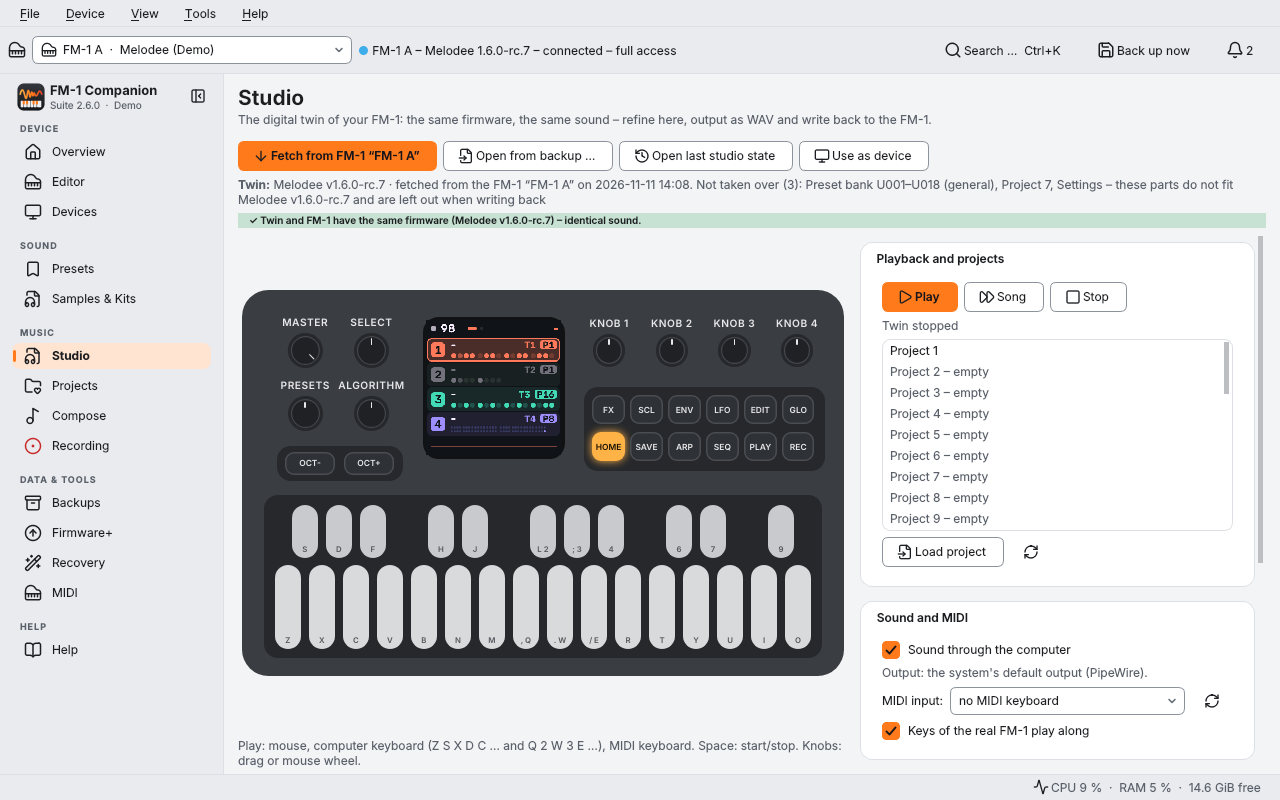
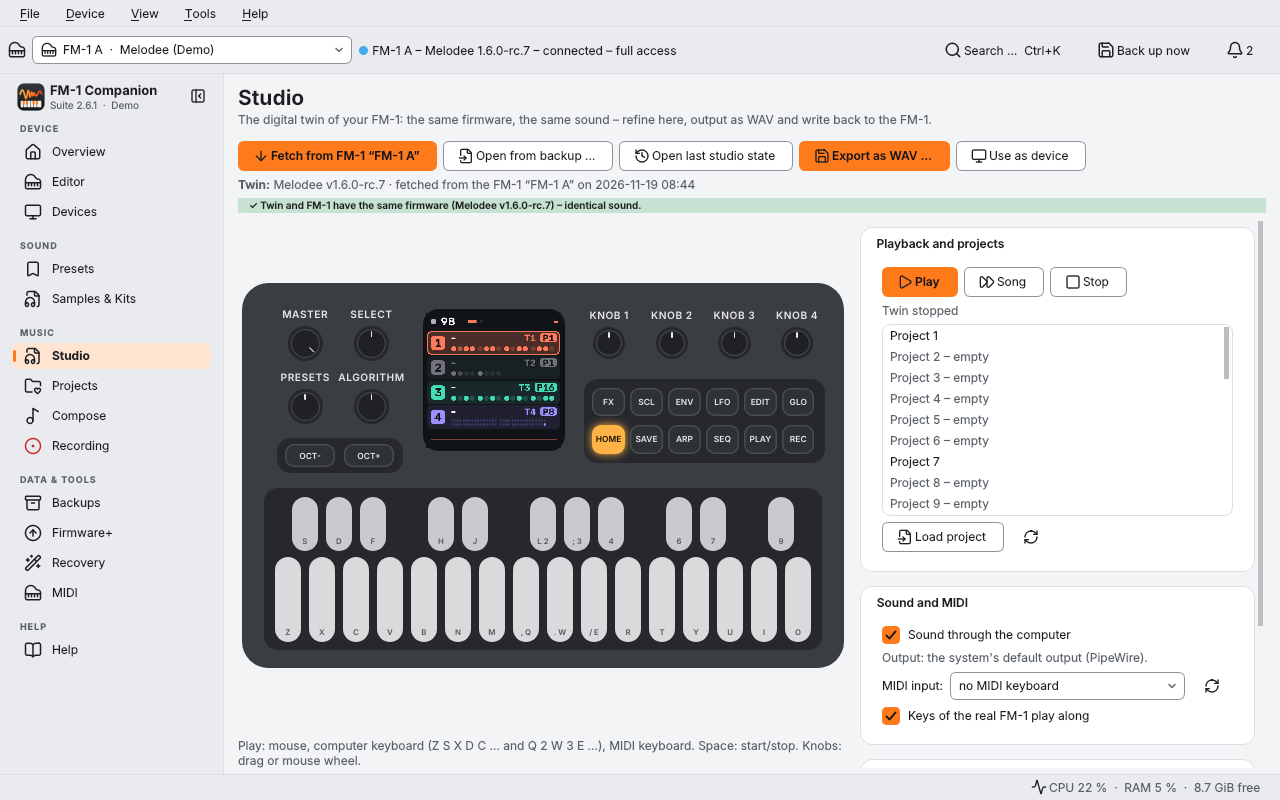
README: match release 2.6.1, fresh screenshots
- Warning: the real hardware state from tested.py / UNTESTED.md (one Pi 5,
  two units: switch via V15 over USB hubs, Skiff on a newer FM-1, backups of
  KARMA/Skiff/SLOOP 3, SLOOP 3 and m-bootloader recognised; what is not tested)
- New section "Newer FM-1 (logo on the front)"
- SLOOP 3 and m-bootloader: what the app does and does not do
- Several FM-1: unit ID, otherwise "Which FM-1 is this?" at every plug-in
- Demo sentence, Skiff twin used once with a real FM-1
- Installing: hub run once in careful mode, FluidSynth mask/unmask,
  recovery tool packages installed by default (also in Requirements)
- All screenshots regenerated (demo mode, English UI), new SLOOP 3 editor
  screenshot (bundled editor against tests/fake_sloop3.py)
- make_screenshots.py: wait until Settings › Storage has measured

Claude-Session: https://claude.ai/code/session_014L6PkRdk4VDGStfhgMpofe

diff --git a/tools/make_screenshots.py b/tools/make_screenshots.py
@@ -205,6 +205,7 @@ try:
         for tw in d.findChildren(__import__("PyQt6.QtWidgets", fromlist=["QTabWidget"]).QTabWidget):
             if tw.indexOf(d.storage) >= 0:
                 tw.setCurrentIndex(tw.indexOf(d.storage))
+    until(lambda: d.storage.cats, 60000)        # the sizes are measured in the background
     wait(2500)
     d.grab().save(str(OUT / "11-storage.png"))
     print("saved 11-storage.png")

diff --git a/README.md b/README.md
@@ -10,8 +10,11 @@ Raspberry Pi 5.
 > **Unofficial community project – not affiliated with M-VAVE. No warranty (GPL-3.0, sections 15 and 16).**
 > Installing or switching firmware, recovery, cleaning up leftovers, writing back from the Studio and restoring
 > backups, presets or projects to the device change your FM-1 and are done **at your own risk** – make a backup first.
-> Almost all of this has only run against simulations. On real hardware so far: one Melodee update, backups, MIDI
-> and the basics of the Studio, on a single device. The honest list: [docs/UNTESTED.md](docs/UNTESTED.md).
+> Almost all of this has only run against simulations. On real hardware so far – one Raspberry Pi 5 with Bookworm,
+> two units, most of it once: an update within Melodee; a switch KARMA → original V15 → Skiff through two USB hubs;
+> Skiff on a newer FM-1; backups of Melodee, KARMA, Skiff and SLOOP 3; SLOOP 3 and m-bootloader recognised; MIDI and
+> the basics of the Studio. **Not tested:** restoring a backup, writing back from the Studio, writing in recovery,
+> anything else on a newer FM-1. The honest list: [docs/UNTESTED.md](docs/UNTESTED.md).
 
 Languages: English, German, Spanish – [help translate](docs/TRANSLATING.md).
 
@@ -46,16 +49,20 @@ What changed in each version is in the release notes on that page.
 
 * More switches of `install.sh`: `--desktop` (shortcut on the desktop), `--no-fluidsynth-fix`, `--usb-power-rule`;
   `./install.sh --help` lists all of them. An unknown option stops the script before anything happens.
-* **FluidSynth:** if Debian's FluidSynth user service (`fluidsynth.service`) is active, it grabs the first sound card
-  at every login (on the Pi: HDMI). The installer then disables it and says so clearly (FluidSynth stays installed,
-  the app starts it itself); with `--no-fluidsynth-fix` it is left unchanged. The graphical installer asks with a
-  checkbox.
+* **FluidSynth:** if Debian's FluidSynth user service (`fluidsynth.service`) is enabled, it grabs the first sound card
+  at every login (on the Pi: HDMI). A "just for me" installation then switches it off for your user and says so
+  (FluidSynth stays installed, the app starts it itself): it disables the service, or – when it is enabled for all
+  users, where disabling changes nothing – stops and masks it for your user. Uninstalling the app takes that mask
+  away again. With `--no-fluidsynth-fix` it is left unchanged; the graphical installer asks with a checkbox.
 * **USB hubs:** flashing through a USB hub uses a *careful mode* (switched on automatically when the app sees a hub
   between the computer and the FM-1, or always via Settings › General): slower pacing, longer waits for the
   restarts, automatic resume of an interrupted write on the same device, and a flight log for the bug report.
   Linux' USB autosuspend can send the FM-1 or the hub to sleep during the restarts –
   `./install.sh --usb-power-rule` installs a udev rule that keeps them awake (the graphical installer offers it as
-  a checkbox). Not tested on a real FM-1 yet.
+  a checkbox). A firmware switch through two self-powered hubs ran once on a real FM-1 in careful mode, without a
+  dropout – the automatic resume has only run in the simulation.
+* **Recovery tool:** the packages it needs (`python3-crcmod`, `python3-yaml`) are installed by default, so that the
+  recovery is ready before it is needed.
 * **Build the packages yourself** (result in `dist/`; the same commit always gives the same files):
 
   ```bash
@@ -69,6 +76,23 @@ What changed in each version is in the release notes on that page.
 
 </details>
 
+## Newer FM-1 (logo on the front)
+
+FM-1 sold from late 2026 have the M-VAVE logo printed on the front and a different flash chip (UCUN UC25HQ80).
+Firmware versions written before that save nothing on such a unit, and most of them can then no longer be updated.
+What the app does:
+
+* It has a table of the first version of each firmware that knows the chip, each with its source
+  ([`hardware.json`](fm1companion/data/hardware.json)) – for example Melodee 1.6.0, Skiff 2.2, SLOOP 2.8.5,
+  KARMA 3.0.4, JIANT FM V10.6z, Felucca 1.8.2. A firmware it knows nothing about counts as not supported.
+* It asks once per device whether your FM-1 has the logo on the front, or reads the chip itself (in ROM boot mode,
+  and in m-bootloader's MIDI MODE).
+* On a newer unit it never installs a firmware version without support for the chip. The bundled recovery tool knows
+  both chips.
+
+Only one of these firmwares has run on such a unit with this app: Skiff 2.7, installed once on one unit. More:
+[help page "Switching firmware"](fm1companion/data/help/en/02-firmware.md#newer-fm-1-logo-on-the-front).
+
 ## Try it without a device
 
 ```bash
@@ -76,7 +100,8 @@ fm1-companion --demo          # from the source folder: python3 -m fm1companion 
 ```
 
 starts with three simulated FM-1: one with Melodee 1.6.0-rc.7, one with SLOOP 2.8.5 and one with a firmware that
-has no editor protocol. Demo mode uses its own settings; your data stays untouched.
+has no editor protocol (shown as ORBIT). Installing and recovery run against simulated devices there too. Demo mode
+uses its own settings; your data stays untouched.
 More switches: `--check` (are all system packages there?), `--syscheck` (system check in the terminal),
 `--lang LANG`, `--no-splash`, `--debug`, `--version`.
 
@@ -87,14 +112,14 @@ Section names as shown in the app's sidebar.
 | Section | What it does |
 |---|---|
 | **Overview** | the active FM-1 at a glance: backup, firmware and updates, load, memory, projects, presets |
-| **Editor** | the web editor of the installed firmware, embedded and offline |
+| **Editor** | the web editor of the installed firmware, embedded and offline – for SLOOP 3 its own bundled editor |
 | **Devices** | several FM-1 with their own profiles and firmware history; copy from device to device |
 | **Presets**, **Samples & Kits** | all 384 user presets, your own library, FM voices (DX7); samples and kits, also on the FM-1 |
 | **Studio** | the digital twin: your firmware's own code on the computer, with the device state from a backup (see below) |
 | **Projects**, **Compose**, **Recording** | view patterns and songs, export MIDI, play on the FM-1; generate parts; record with Audacity |
-| **Backups** | full backups, look inside, compare, restore the whole or only parts |
+| **Backups** | full backups, look inside, compare, restore the whole or only parts; SLOOP 3 backups of its own kind |
 | **MIDI** | monitor, keyboard, clock, controls, connections, sound module |
-| **Firmware+** | catalog of 250+ community firmwares (search, try in the simulator) and "Install & Versions": install, update, switch, back to the original |
+| **Firmware+** | catalog of 250+ community firmwares (search, try in the simulator) and "Install & Versions": install, update, switch, back to the original; SLOOP 3: the way to install it, and a copy of the whole flash in m-bootloader's MIDI MODE |
 | **Recovery** | update mode, finish an interrupted installation, "Is my FM-1 clean?", ROM boot mode |
 | **Help** | help center (offline), FAQ, diagnostics, system check for USB, power and audio |
 | **Settings › Storage** | what the app keeps (logs, downloads, caches), delete per category, automatic cleanup – never your own data in `~/FM-1` |
@@ -102,9 +127,31 @@ Section names as shown in the app's sidebar.
 Around it: light/dark theme, command search (**Ctrl+K**), notifications with history, a setup assistant, and a small
 computer indicator (CPU, RAM, temperature, free space) that opens the system check.
 
+Several FM-1: the app tells them apart by their unit ID when the firmware shows one (the original firmware,
+m-bootloader's MIDI MODE). Skiff, Melodee, SLOOP and the other Felucca firmwares show none – then the app asks
+"Which FM-1 is this?" at every plug-in, never guesses by USB port, and names the unit before every write so you can
+check it.
+
 Firmware installs: built in are Melodee, Skiff, SLOOP and KARMA; others come from the catalog or your own `.fwsc`
-file. A switch to another firmware always installs the original V15 first; an update within the same firmware goes
-directly.
+file. SLOOP 3 is built in too, but the app does not install it (see below). A switch to another firmware always
+installs the original V15 first; an update within the same firmware goes directly.
+
+### SLOOP 3 and m-bootloader
+
+SLOOP 3 (isod89) is a rewrite of SLOOP and a **public beta**. It installs only through m-bootloader's MIDI MODE, and
+both are installed **outside the app**: Firmware+ explains the steps and opens the author's installer page. What the
+app does:
+
+* It recognises SLOOP 3 and shows its own web editor on the Editor page – bundled unchanged for 3.3.7 and 3.4.0, so
+  it works offline.
+* Backups of the project, sounds, banks and settings, and their restore (samples are not in such a backup).
+* It recognises m-bootloader's MIDI MODE and never takes it for an update mode; there it can copy the whole flash
+  (read only, checked against the chip's own checksum).
+* It installs no other firmware from MIDI MODE or under a running SLOOP 3, and on a newer FM-1 (logo on the front) it
+  does not offer the installer page. The Studio has no SLOOP 3 twin.
+
+On a real FM-1, once and read only: recognition, the bundled editor connected, one backup, MIDI MODE recognised.
+Restore and the flash copy have only run against stand-ins. More: [help page "SLOOP 3"](fm1companion/data/help/en/15-sloop3.md).
 
 ### Studio twins
 
@@ -129,8 +176,8 @@ tracks), take snapshots with undo and write back to the FM-1 with a safety backu
 | M-VAVE FM1 Open | V14 – also the stand-in for the original V15/V16, with a note that they differ |
 
 FoMni and AMB-1 have no backup over USB: their twins play and export, but cannot load from or write back to the
-device. Only the Melodee twin has been used next to a real FM-1 so far; the other twelve have only been checked
-against themselves and the app's own code.
+device. Only the Melodee twin has been used next to a real FM-1, and the Skiff twin once (fetched from a unit with
+Skiff 2.7); the other eleven have only been checked against themselves and the app's own code.
 
 <details>
 <summary>More screenshots</summary>
@@ -147,8 +194,8 @@ Taken in demo mode, English UI.
 | **Backups › Browse & Compare** – projects, presets, settings; restore only parts | **Firmware+** – 250+ community firmwares, install, versions, simulator |
 | ![Presets – the 384 user slots and your own library](docs/screenshots/presets.png) | ![Recovery – step by step back to a working FM-1](docs/screenshots/recovery.png) |
 | **Presets** – all 384 user slots, library, FM voices (DX7) | **Recovery** – update mode and ROM boot mode, with safety checks |
-| ![Settings › Storage – see and delete logs, downloads and caches](docs/screenshots/storage.png) | |
-| **Settings › Storage** – what the app keeps, delete per category, automatic cleanup | |
+| ![Settings › Storage – see and delete logs, downloads and caches](docs/screenshots/storage.png) | ![Editor – SLOOP 3's own web editor, bundled with the app](docs/screenshots/sloop3-editor.png) |
+| **Settings › Storage** – what the app keeps, delete per category, automatic cleanup | **Editor** with SLOOP 3 3.3.7 – its own bundled editor (here against the test stand-in, not a real FM-1) |
 
 </details>
 
@@ -161,7 +208,7 @@ Linux with Python ≥ 3.11 and Qt 6.4 or newer – Raspberry Pi OS / Debian Book
   `python3-pyqt6.qtwebchannel`, `python3-mido`, `python3-rtmidi`, `python3-numpy`, `git`, and
   `qt6-translations-l10n` (Qt's own dialogs in your language – the app also starts without it).
 * Recommended: `python3-pyqt6.qtmultimedia`, `ffmpeg`, `alsa-utils`, `pipewire-bin`, `audacity`, `fluidsynth`,
-  `fluid-soundfont-gm`.
+  `fluid-soundfont-gm`, and `python3-crcmod`, `python3-yaml` for the recovery tool.
 
 The list lives in one place, `fm1companion/data/deps.json`; `fm1-companion --check` shows what is missing.
 The launcher always uses `/usr/bin/python3` – even if a venv is active.
